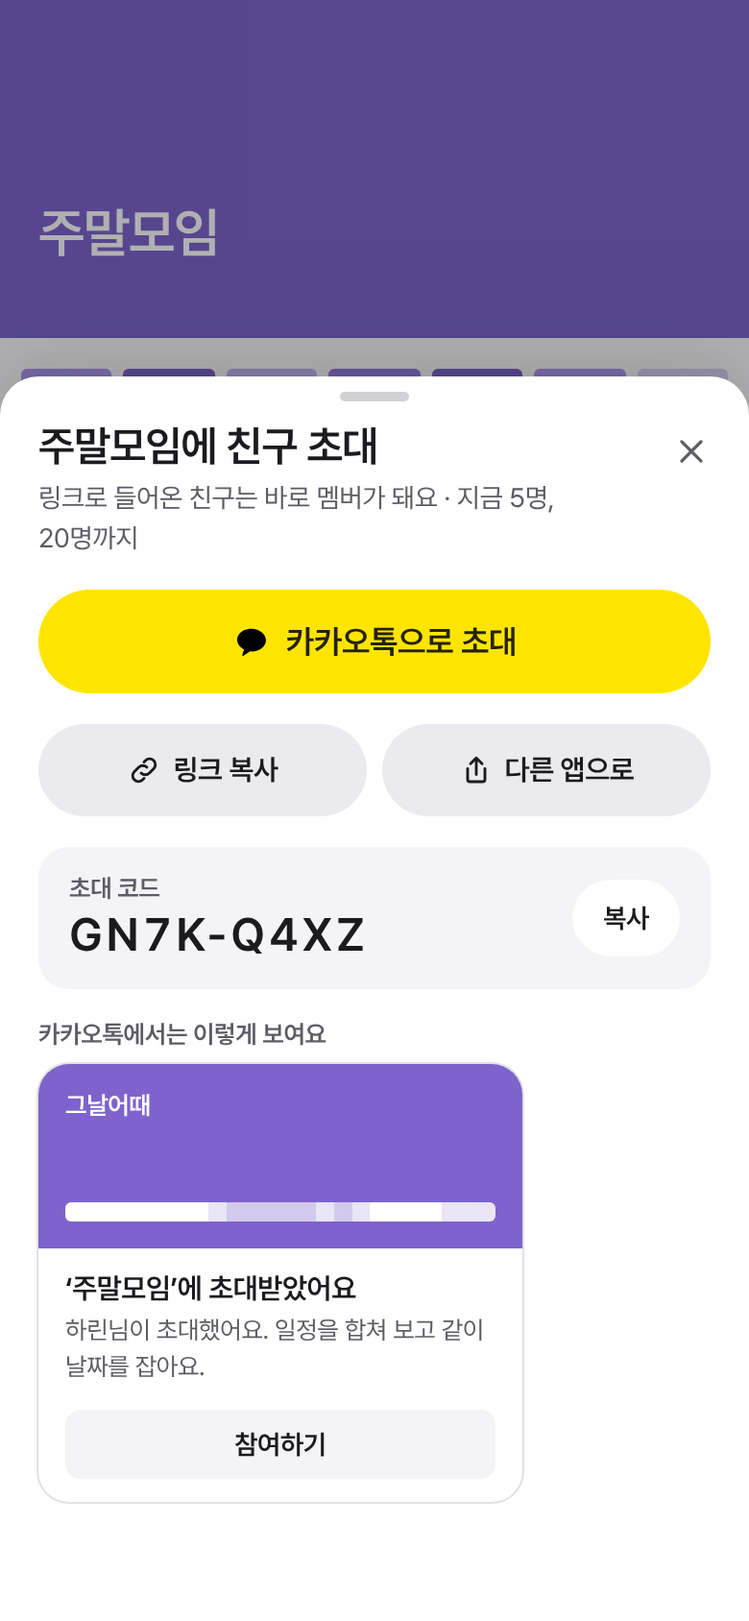
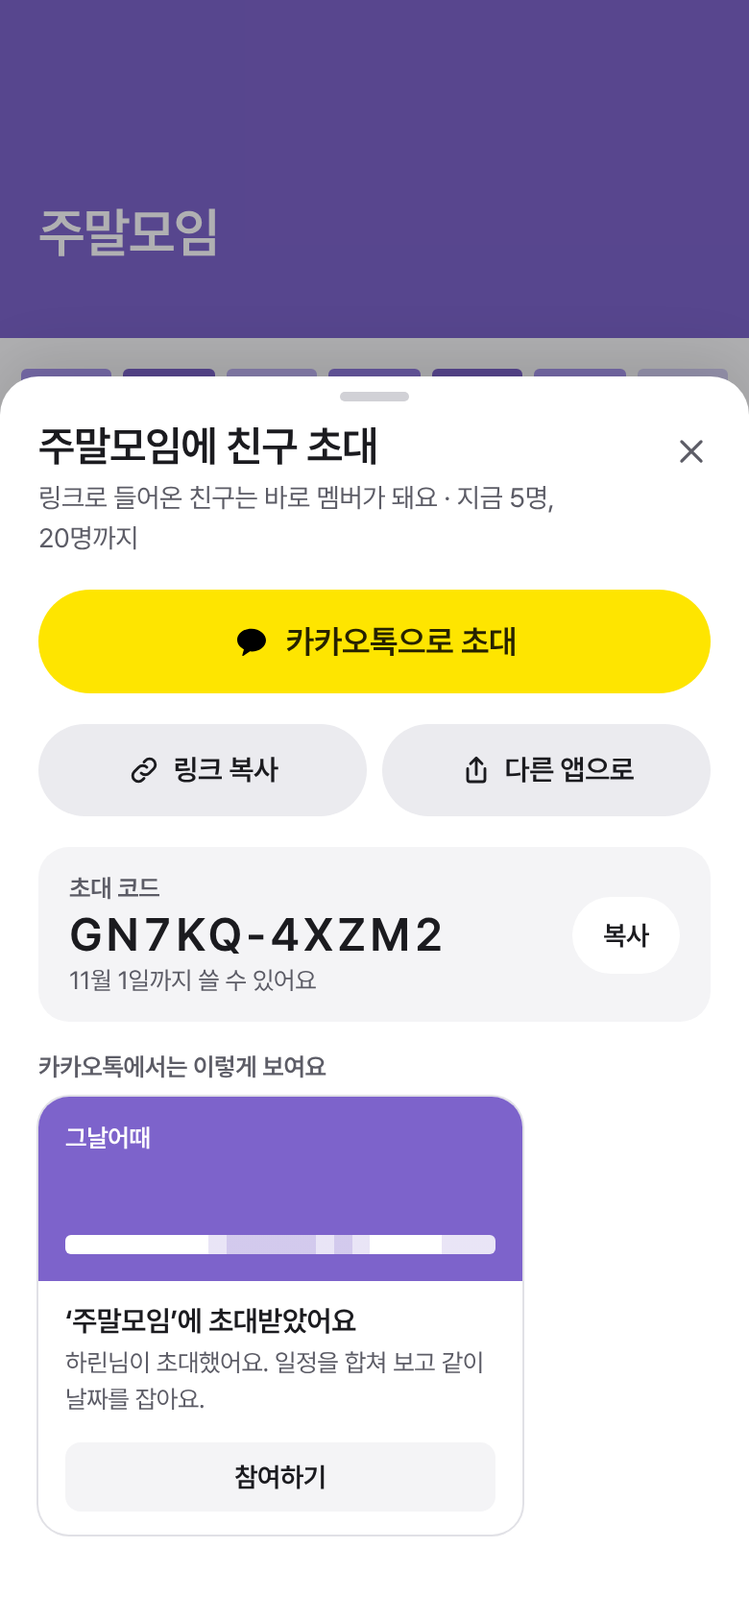
docs(design): write the M2 flows and wireframes
The M2 group alpha gets the same kind of document M1 has: a screen list,
flow charts for joining, date setting, voting and group settings, and a
wireframe table per screen, built on the twelve existing M2 boards and
kickoff 5.3 to 5.6 and the contract's entries and state blobs. Screens
without a board (create group, invite code, the leader's time and
activity sheet, leader transfer, cancel, members, group profile, leave
and delete) are specified in text.

Ten review items record what the wireframes needed and the contract does
not say yet, such as what a person sees before joining, invite expiry,
a leader leaving the group, and a notice on leader transfer. The invite
board shows a ten-character code with its end date, and the join board
no longer lists member names before joining.

Claude-Session: https://claude.ai/code/session_01NfNQYytRc1WA56NULSw6PM

diff --git a/docs/design/boards/Invite.dc.html b/docs/design/boards/Invite.dc.html
@@ -44,7 +44,7 @@ button{font:inherit;letter-spacing:inherit;color:inherit}
 </div>
 
 <div style="display: flex; align-items: center; gap: 12px; padding: 14px 16px; border-radius: 16px; background: #f4f4f6">
-<span style="flex: 1 1 0; display: flex; flex-direction: column; gap: 2px"><span style="font-size: 13px; font-weight: 600; color: #5c5c66">초대 코드</span><span style="font-size: 24px; font-weight: 600; letter-spacing: 0.08em; font-variant-numeric: tabular-nums">GN7K-Q4XZ</span></span>
+<span style="flex: 1 1 0; display: flex; flex-direction: column; gap: 2px"><span style="font-size: 13px; font-weight: 600; color: #5c5c66">초대 코드</span><span style="font-size: 24px; font-weight: 600; letter-spacing: 0.08em; font-variant-numeric: tabular-nums">GN7KQ-4XZM2</span><span style="font-size: 13px; color: #5c5c66">11월 1일까지 쓸 수 있어요</span></span>
 <button type="button" style="height: 40px; padding: 0 16px; border: none; border-radius: 999px; background: #ffffff; font-size: 14px; font-weight: 600; cursor: pointer">복사</button>
 </div>
 

diff --git a/docs/design/boards/Join.dc.html b/docs/design/boards/Join.dc.html
@@ -25,7 +25,7 @@ button{font:inherit;letter-spacing:inherit;color:inherit}
 <span style="width: 64px; height: 64px; border-radius: 18px; background: {{g.s5}}; color: #ffffff; display: flex; align-items: center; justify-content: center; font-size: 26px; font-weight: 600">주</span>
 <span style="margin-top: 6px; font-size: 15px; color: #5c5c66">하린님이 초대했어요</span>
 <h1 style="margin: 0; font-size: 32px; font-weight: 600; letter-spacing: -0.03em">주말모임</h1>
-<span style="font-size: 15px; color: #5c5c66">멤버 5명 · 하린, 지영, 민수, 서연, 현우</span>
+<span style="font-size: 15px; color: #5c5c66">멤버 5명 · 이름은 들어가면 보여요</span>
 </div>
 
 <section aria-label="참여하면 보이는 것" style="position: absolute; top: 318px; left: 16px; width: 358px; display: flex; flex-direction: column; gap: 8px">

diff --git a/docs/design/m2.md b/docs/design/m2.md
@@ -1,0 +1,345 @@
+# M2 화면 흐름도와 와이어프레임
+
+M2 그룹 알파에 들어가는 화면입니다. [M1 화면](m1.md)과 같은 형식으로, 흐름도는 화면이 어떻게 이어지는지, 와이어프레임 표는 화면마다 무엇이 있고 어떤 상태가 있는지 적습니다. 그림은 [화면 시안](screens.md)의 `screens/m2` PNG입니다. 기준은 [개요](../kickoff.md) 5.3 그룹 캘린더, 5.4 날짜 잡기, 5.6 그룹 설정과 [공통 계약](../parts/protocol.md) 2·4·5·8장입니다.
+
+- **탭 막대:** M2는 캘린더 · 그룹 · 나 세 개입니다. 채팅 탭은 M3에서 더합니다. 시안 보드는 채팅까지 네 탭으로 그렸으므로, M2에서는 채팅 탭과 그 배지를 뺍니다.
+- **그룹 화면:** M2의 그룹 화면은 그룹 캘린더 하나입니다. 시안 머리글의 "캘린더 · 채팅 · 사진" 세그먼트와 약속·응답·정해짐 화면 머리글의 채팅 아이콘은 M3에서 켭니다. 그래서 M2의 날짜 잡기는 알림, 그룹 목록의 소식, 그룹 캘린더의 약속으로 보이고, 채팅 타임라인의 카드는 M3부터입니다.
+- **그룹 색:** 그룹 화면의 머리글과 강조색, 띠의 단계, 내 캘린더에 들어간 약속의 색은 그 그룹의 색을 따릅니다([README](README.md) 2.2, 개요 5.6).
+
+## 1. 화면 목록
+
+| 번호 | 화면 | 종류 | 시안 |
+| --- | --- | --- | --- |
+| 1 | 그룹 목록 | 탭 첫 화면 | [01-groups](screens/m2/01-groups@2x.png) |
+| 2 | 초대 보내기 | 시트 | [02-invite](screens/m2/02-invite@2x.png) |
+| 3 | 초대 받은 사람 | 전체 화면 | [03-join](screens/m2/03-join@2x.png) |
+| 4 | 그룹 캘린더 | 밀어 들어가는 화면 | [04-group-calendar](screens/m2/04-group-calendar@2x.png) |
+| 5 | 날 테이블 | 밀어 들어가는 화면 | [05-day-table](screens/m2/05-day-table@2x.png) |
+| 6 | 날짜 잡기 시트 | 시트 | [06-date-sheet](screens/m2/06-date-sheet@2x.png) |
+| 7 | 약속 상세 | 밀어 들어가는 화면 | [07-appointment](screens/m2/07-appointment@2x.png) |
+| 8 | 응답 | 밀어 들어가는 화면 | [08-respond](screens/m2/08-respond@2x.png) |
+| 9 | 투표 | 밀어 들어가는 화면 | [09-vote](screens/m2/09-vote@2x.png) |
+| 10 | 정해짐 | 밀어 들어가는 화면 | [10-decided](screens/m2/10-decided@2x.png) |
+| 11 | 그룹 설정 | 밀어 들어가는 화면 | [11-group-settings](screens/m2/11-group-settings@2x.png) |
+| 12 | 그룹 캘린더 · 어두운 모드 | 상태 | [12-group-calendar-dark](screens/m2/12-group-calendar-dark@2x.png) |
+| 13 | 그룹 만들기 | 시트 | 아직 없음 |
+| 14 | 초대 코드 넣기 | 시트 | 아직 없음 |
+| 15 | 시간·활동 정하기(주도자) | 시트 | 아직 없음 |
+| 16 | 주도자 넘기기 | 시트 | 아직 없음 |
+| 17 | 약속 취소 | 시트 | 아직 없음 |
+| 18 | 멤버 | 밀어 들어가는 화면 | 아직 없음 |
+| 19 | 그룹 프로필 | 시트 | 아직 없음 |
+| 20 | 나가기 · 내보내기 · 그룹 삭제 | 시트 | 아직 없음 |
+
+"아직 없음"인 화면은 이 문서의 표가 와이어프레임입니다. 부품은 [컴포넌트](components.md)와 M1의 같은 종류(시트 머리, 설정 줄, 빨간 글자 버튼)를 그대로 씁니다. 첫 그룹 전에 거치는 복구 코드는 M1 13번 화면입니다(2.1). 앱 스크린샷의 이름은 이 번호를 따릅니다(`m2/04-group-calendar`처럼).
+
+## 2. 흐름도
+
+### 2.1 그룹 만들기와 들어오기
+
+```mermaid
+flowchart TD
+    T[그룹 탭: 그룹 목록] -->|＋| N[그룹 만들기<br>이름 · 그룹 색]
+    T -->|초대 코드| C[초대 코드 넣기]
+    K[카카오톡 카드 · 초대 링크] -->|앱이 있음| J[초대 받은 사람]
+    K -->|앱이 없음| A[스토어 → 설치 → 시작 화면의 초대 카드] --> L[로그인] --> J
+    C --> J
+    N -->|만들기| R{복구 코드를<br>저장했나?}
+    J -->|참여하기| R
+    R -->|아니요| Q[복구 코드 · M1 13번<br>종이에 적었어요] --> P{만들기? 참여?}
+    R -->|예| P
+    P -->|만들기| I[초대 보내기] --> G[그룹 캘린더]
+    P -->|참여| W[들어가는 중<br>멤버 기기가 받아 줌] --> G
+```
+
+- 그룹은 한 사람이 20개까지, 그룹마다 20명까지입니다. 꽉 차면 만들기·참여하기 버튼을 끄고 이유를 적습니다.
+- 첫 그룹을 만들거나 참여하기 전에 복구 코드를 적게 합니다(M1 결정 3). 이미 "저장함"이면 건너뜁니다. 그룹에 들어간 뒤 기기를 잃으면 복구 코드 없이는 그 기록을 되찾을 수 없기 때문입니다.
+- 초대 링크나 코드로 들어온 사람은 초대한 멤버가 승인한 것으로 봅니다(개요 10장). 서버에서는 대기(`pending`)이고, 온라인인 멤버 기기 하나가 Add 커밋으로 넣어 주면 들어갑니다(계약 2장). 그래서 참여하기 뒤에 "들어가는 중" 상태가 있습니다.
+- 앱이 없으면 스토어를 거칩니다. 안드로이드는 설치 정보(Install Referrer)로 초대를 이어 받고, iOS는 설치 뒤 링크를 한 번 더 누르거나 시작 화면의 "초대 코드가 있어요"에 코드를 붙여넣습니다.
+- 새 멤버는 들어온 뒤의 기록만 봅니다. 날이 지나지 않은 약속은 새 멤버용 번들로 받습니다(계약 5장).
+
+### 2.2 날짜 잡기
+
+```mermaid
+flowchart TD
+    G[그룹 캘린더] -->|날짜 탭| D[날 테이블<br>30분 · 끌어서 시간]
+    D -->|이 날로 날짜 잡기| S[날짜 잡기 시트<br>투표 · 독재 · 한마디]
+    S -->|신청하기| A[약속 상세 · 주도자<br>내 캘린더에 가안]
+    S -.->|알림: 멤버 전원| M[응답]
+    M -->|수락| X[내 캘린더에 종일 일정<br>시간이 정해지면 그 시간으로]
+    M -->|다음에| Y[빠짐 · 다시 수락하면 늦참]
+    A -->|독재: 시간·활동 정하기| T[시간·활동 정하기] --> U[참가자 일정이 함께 바뀜]
+    A -->|투표 열기| V[투표]
+    V -->|닫힘| Z[정해짐]
+    A -->|주도자 넘기기| H[주도자 넘기기]
+    A -->|약속 취소| K[약속 취소]
+```
+
+- 신청은 멤버 전원에게 갑니다(개요 10장). 신청하는 순간 주도자의 캘린더에 가안으로 들어가고, 첫 수락이 오면 확정입니다.
+- 응답은 수락과 다음에 둘이고, 이름과 함께 멤버 모두에게 보입니다. 사람마다 마지막 응답이 유효합니다.
+- 결정 방식의 처음값은 그룹 설정의 기본 결정 방식입니다. 주도자는 신청 뒤에도 바꿀 수 있습니다(`RequestUpdate`).
+- **끝:** 약속 날이 한국 시간으로 지나면 끝납니다. 수락이 없던 신청은 주도자의 가안까지 모든 기기에서 사라지고, 수락이 있던 약속은 참가자 캘린더에 지난 일정으로 남습니다. 그룹 캘린더에는 지난 약속이 90일 보입니다.
+- 시간이 정해진 약속과 가안은 모든 그룹에 일정이 있는 시간으로 보이고, 시간이 미정인 약속은 하루를 막지 않도록 비어 있는 시간으로 둡니다(개요 5.4).
+
+### 2.3 투표
+
+```mermaid
+flowchart LR
+    O[주도자: 투표 열기<br>추천 3개 고정] --> P[참가자 투표<br>마지막 표가 유효]
+    P -->|선택지 추가| P
+    P --> C{닫힘}
+    C -->|현재 참가자 전원 투표| R[결과]
+    C -->|주도자가 닫음| R
+    C -->|약속 날 00:00| R
+    R -->|시간 투표| T[참가자 일정의 시간]
+    R -->|활동 투표| A[참가자 일정의 제목]
+    R -.->|주도자가 다시 열기| O
+```
+
+- 선택지는 추천 3개, 멤버가 더한 것, 맨 아래 "아무거나"입니다. 추천 3개는 주도자가 여는 순간 주도자 기기가 계산해 고정합니다.
+- 선택지 추가는 신청할 때의 그룹 설정을 따릅니다(`Request.leader_options`). "주도자만"이면 다른 사람에게는 "선택지 추가"가 보이지 않습니다.
+- 표는 참가자(수락한 사람과 주도자)마다 하나입니다. 늦참자도 닫히기 전까지 투표할 수 있습니다.
+- 결과는 가장 많은 표를 받은 선택지입니다. 모두 "아무거나"이거나 아무도 투표하지 않았으면 추천 1번, 동점이면 목록에서 먼저 나오는 것입니다. 다시 열면 추천을 새로 계산하고 표는 지웁니다.
+
+### 2.4 그룹 설정과 관리
+
+```mermaid
+flowchart TD
+    G[그룹 캘린더] -->|오른쪽 위 설정| S[그룹 설정]
+    S -->|이름 · 색 · 커버 · 날짜 잡기 기본값| C[멤버 누구나 바꿈<br>마지막으로 바꾼 사람 표시]
+    S -->|그룹 프로필| P[그룹 프로필 · 취향]
+    S -->|멤버| M[멤버]
+    M -->|방장: 내보내기 · 방장 넘기기| K[확인 시트]
+    S -->|초대 링크| I[초대 보내기]
+    S -->|그룹 나가기| L[나가기 확인]
+    S -->|방장: 그룹 삭제| X[그룹 삭제 확인]
+```
+
+- 그룹 공통 설정은 멤버 누구나 바꿉니다. 방장에게 남는 것은 멤버 내보내기와 그룹 삭제, 방장 넘기기뿐입니다(개요 5.6).
+- 동시에 바꾸면 서버가 나중 저장을 거절하고(409 `state_conflict`), 기기가 최신 값에 내가 바꾼 항목만 다시 얹어 저장합니다. 같은 항목이면 나중 값이 남습니다. 화면에는 오류를 띄우지 않고 바뀐 값과 "마지막으로 바꾼 사람"만 새로 보입니다.
+- 날짜 잡기 기본값은 이미 신청된 약속에 영향을 주지 않습니다. 결정 방식과 선택지 추가 권한은 신청에 복사되기 때문입니다(계약 4장).
+- 방장이 나가거나 계정을 지우면 가장 오래된 활성 멤버가 방장이 됩니다([API](../parts/api-server.md) 방장 승계).
+
+### 2.5 알림과 링크로 들어오기
+
+| 출발 | 도착 |
+| --- | --- |
+| 초대 링크(`/i/<코드>`) | 3번 초대 받은 사람 |
+| 날짜 잡기 신청 알림 | 8번 응답 |
+| 수락·다음에 알림(주도자) | 7번 약속 상세 |
+| 투표 열림 알림 | 9번 투표 |
+| 투표 닫힘 알림 | 10번 정해짐 |
+| 시간·활동 변경 알림(참가자) | 7번 약속 상세 |
+| 취소 알림 | 4번 그룹 캘린더의 그 날, 토스트 "하린이 11/7(토) 약속을 취소했어요" |
+| 들어가기 끝남(대기 → 활성, 실시간 `welcome`) | 4번 그룹 캘린더, 토스트 "주말모임에 들어왔어요". 앱이 닫혀 있었으면 다음에 열 때 |
+| 중간 위젯의 다음 약속 | 7번 약속 상세 |
+
+알림 문구는 [문구와 톤](tone.md#알림-문구)을 따릅니다. 그룹 설정에서 약속 알림을 끈 멤버에게는 신청·응답·투표·변경 알림이 가지 않습니다(계약 8장).
+
+## 3. 와이어프레임
+
+화면마다 위에서 아래 순서로 적습니다. 크기는 pt이고, 높이가 적힌 것은 고정 높이입니다. "데이터"는 코어가 내야 하는 값과 그 값이 오는 곳(엔트리, 상태 블롭, 서버)입니다.
+
+### 1. 그룹 목록
+
+| 항목 | 내용 |
+| --- | --- |
+| 구성 | 큰 제목 "그룹"(32) + 오른쪽 글자 버튼 "초대 코드" · ＋ → 안내 한 줄 "그룹 4개 · 20개까지, 그룹마다 20명까지" → 그룹 줄(84): 그룹 아바타(커버가 있으면 커버, 없으면 그룹 색 5단계 바탕에 첫 글자) · 이름(17 · 600) · 둘째 줄 소식 · 오른쪽 응답 배지 → 다음 할 일 막대 → 탭 막대 |
+| 둘째 줄 | 하나만 보입니다. 응답할 신청("엄마가 11월 15일(일)로 날짜를 잡았어요" + 작은 알약 "응답"), 진행 중인 투표("11월 7일(토) · 시간 투표 3/4명"), 다음 약속("11월 7일(토) 19:00 · 보드게임 카페"), "잡힌 약속 없음" 순으로 앞의 것이 이깁니다. 채팅 미리보기는 M3에서 더합니다 |
+| 순서 | 맨 위 고정한 그룹 → 응답할 일이 있는 그룹 → 최근 소식 순 |
+| 동작 | 줄 탭 → 4번. 응답 알약 → 8번. ＋ → 13번. "초대 코드" → 14번 |
+| 상태 | 0개: "아직 그룹이 없어요" + 설명 "그룹을 만들면 멤버들의 비어 있는 시간을 합쳐 볼 수 있어요" + 주요 버튼 "그룹 만들기" + 글자 버튼 "초대 코드가 있어요". 들어가는 중: 둘째 줄 "들어가는 중 · 멤버가 앱을 열면 들어가요", 누르면 3번의 기다림 상태. 20개: ＋ 꺼짐, 안내 줄이 "그룹은 20개까지 들어갈 수 있어요" |
+| 배지 | 탭 막대의 그룹 탭과 그룹 줄 오른쪽: 응답하지 않은 신청 수 |
+| 데이터 | 그룹마다 이름·색·커버(`group_meta`), 고정 여부(기기), 멤버 상태(서버), 응답할 신청과 투표 진행과 다음 약속(엔트리로 계산) |
+
+### 2. 초대 보내기
+
+| 항목 | 내용 |
+| --- | --- |
+| 구성 | 시트(그룹 캘린더 위) → 제목 "주말모임에 친구 초대" + 닫기 → 설명 "링크로 들어온 친구는 바로 멤버가 돼요 · 지금 5명, 20명까지" → 버튼 "카카오톡으로 초대"(54, 카카오 노랑 `#FEE500`) → 나란히 "링크 복사" · "다른 앱으로"(시스템 공유) → 초대 코드 카드: 코드(24 · 600, 5자씩 두 묶음 "GN7KQ-4XZM2") + "11월 1일까지 쓸 수 있어요" + 작은 알약 "복사" → "카카오톡에서는 이렇게 보여요" 미리보기 카드 |
+| 카카오톡 카드 | 앱 이름, "'주말모임'에 초대받았어요", "하린님이 초대했어요. 일정을 합쳐 보고 같이 날짜를 잡아요.", 버튼 "참여하기". 링크는 `https://<초대 도메인>/i/<코드>#<그룹 이름과 색>`이고, 그룹 이름은 서버가 모르므로 초대하는 기기가 링크 뒤쪽(#)에 붙입니다 |
+| 동작 | 링크·코드 복사 → 토스트 "복사했어요". 카카오톡으로 초대 → 카카오톡 공유(카카오톡이 없으면 카카오 웹 공유) |
+| 상태 | 코드는 7일 동안 씁니다. 끝났으면 카드가 "끝난 코드예요" + 작은 알약 "새 코드 만들기". 20명이 다 참: 세 버튼 꺼짐, 설명 "20명이 다 찼어요. 멤버가 나가면 다시 초대할 수 있어요". 오프라인이고 받은 코드가 없음: 버튼 꺼짐 "연결되면 초대할 수 있어요" |
+| 데이터 | 초대 코드와 끝나는 시각(`POST /groups/{id}/invites`), 멤버 수 |
+
+### 3. 초대 받은 사람
+
+| 항목 | 내용 |
+| --- | --- |
+| 구성 | 닫기 → 그룹 아바타(64) → "하린님이 초대했어요" → 그룹 이름(32) → "멤버 5명 · 이름은 들어가면 보여요" → 카드 "참여하면 이 그룹에 보이는 것": "30분 단위로 비어 있는지만" + "일정 제목·장소·첨부는 보이지 않아요. 내용은 멤버 기기에서만 열려요." → 묶음: 공유 기간 "오늘부터 8주 ›" · 포함할 캘린더 "학교 · 알바 · 개인 ›"(소프트 캘린더는 "비어 있음으로") · 생일 공개 스위치 → 주요 버튼 "주말모임 참여하기" → 글자 버튼 "다른 초대 코드 붙여넣기" |
+| 그룹 이름 | 링크(#)로 왔으면 그 이름과 색. 코드만 넣었으면 이름 자리에 "하린님의 그룹"을 쓰고 그룹 색 대신 먹색 아바타. 실제 이름은 들어간 뒤 그룹 메타로 바뀝니다 |
+| 동작 | 참여하기 → (첫 그룹이고 복구 코드를 적지 않았으면 M1 13번) → 들어가는 중 → 그룹 캘린더. 공유 설정은 이 화면에서 정한 값으로 시작하고, 그룹 설정에서 바꿉니다 |
+| 들어가는 중 | 같은 화면이 "들어가는 중" 상태로 바뀜: 제목 "주말모임에 들어가는 중이에요", 설명 "멤버 기기가 받아 주면 바로 열려요. 멤버가 모두 앱을 닫고 있으면 조금 걸릴 수 있어요." + 글자 버튼 "그룹 목록으로". 끝나면 토스트 "주말모임에 들어왔어요"(앱이 닫혀 있었으면 다음에 열 때) |
+| 오류 | 끝난 코드·다 쓴 코드: 빨간 카드 "이 초대는 끝났어요. 초대한 사람에게 새 링크를 받아 주세요." 이미 멤버: 바로 그룹 캘린더. 그룹이 20명: 버튼 꺼짐 "이 그룹은 20명이 다 찼어요". 내 그룹이 20개: 버튼 꺼짐 "그룹은 20개까지 들어갈 수 있어요". 로그인 전: 로그인(M1 2번)을 거쳐 돌아옴 |
+| 데이터 | 서버의 초대 미리보기(초대한 사람의 이름, 멤버 수, 끝나는 시각, 다 찼는지), 링크(#)의 그룹 이름·색, `POST /invites/{code}/join` |
+
+### 4. 그룹 캘린더
+
+| 항목 | 내용 |
+| --- | --- |
+| 구성 | 머리글: "‹ 그룹" · 그룹 이름(17 · 600) · 오른쪽 친구 초대(2번) · 설정(11번). 커버가 있으면 3:1 커버 머리글(스크롤하면 접힘), 없으면 그룹 색 띠 → 멤버 줄 "5명 · 지영, 민수, 서연, 현우" → 월 제목 + 범례(1명 · 5명 단계 막대) → 요일 줄 → 5~6주 격자(칸 76): 날짜, 그날의 1시간 띠(16, 0–24시 24칸, 6시간마다 눈금), 약속(그룹 색 5단계 막대 + 참가자 수), 생일 아이콘(공개한 멤버만), 공휴일 → 다음 할 일 막대 → 탭 막대 |
+| 띠 | 칸의 값은 그 한 시간 내내 일정이 없는 멤버 수. 0명은 빈 칸, 1명은 가장 연하게, 전원은 가장 진하게(`freeCount` 규칙). 공유 기간 밖의 날은 띠 없음 |
+| 동작 | 날짜 탭 → 5번 날 테이블. 약속 막대 탭 → 7번(주도자) 또는 8번(응답 전)·7번(응답 뒤). 좌우 밀기 → 이전·다음 달. 띠를 길게 누름 → 말풍선 "14시 · 3명 비어 있음 · 지영, 민수, 서연" |
+| 상태 | 공유한 멤버가 나뿐: 띠 대신 안내 "멤버가 공유하면 비어 있는 시간이 보여요". 불참(공유하지 않음·일시중지·키가 아직 없음): 그 멤버는 비어 있는 것으로 세지 않고, 멤버 줄에 "현우 · 공유 안 함". 오프라인: 마지막으로 받은 값으로 그리고 월 제목 아래 "10분 전 기준". 들어온 지 얼마 안 됨: 멤버 블롭을 받는 동안 띠 자리에 옅은 빈 칸 |
+| 접근성 | 날짜 칸은 하나의 버튼: "11월 7일 토요일, 9시부터 21시 사이 최대 4명 비어 있음, 약속 1개". 가장 큰 글자에서는 띠 대신 "가장 많이 비는 시간 · 18–22시 · 4명" 한 줄 |
+| 데이터 | 멤버마다 `availability`(30분 비트), `member_profile`(이름, 생일 공개), 그룹 메타, 약속 엔트리, 공휴일 |
+
+어두운 모드(12번)에서는 띠가 어두운 쪽에서 밝아지는 그룹 색의 어두운 단계로 바뀌고, 탭 막대는 어두운 글라스입니다.
+
+### 5. 날 테이블
+
+| 항목 | 내용 |
+| --- | --- |
+| 구성 | 머리글 "‹ 주말모임" → 제목 "11월 7일 토요일" + 설명 "주말모임 5명 · 30분 단위 · 끌어서 시간 고르기" → 선택 요약 카드: "비어 있는 사람 · 모두", 범위 "18:00–22:00 · 4시간", "4명 비어 있어요" → 테이블: 시각 눈금, 맨 위 합친 줄(그룹 색 단계), 멤버마다 한 줄(36, 아바타 + 이름, 비어 있는 30분 칸을 그룹 색으로) → 겹침 안내 "현우는 21:30부터 일정이 있어요" → 주요 버튼 "이 날로 날짜 잡기" |
+| 동작 | 테이블을 끌어 범위 고르기(30분 단위, 양 끝 손잡이 20×44). 범위 안 내내 비어 있는 사람의 줄이 강조됩니다. 날짜 잡기 → 6번(고른 범위를 시간으로 가져감, 범위가 없으면 시간 미정) |
+| 상태 | 지난 날: 날짜 잡기 버튼 꺼짐 "지난 날이에요". 이미 약속이 있는 날: 위에 그 약속 줄(누르면 7번). 불참 멤버: 줄이 흐리고 "공유 안 함" |
+| 접근성 | 범위는 조절 요소: 위아래로 30분 이동, 늘리기·줄이기. 멤버 줄은 "지영, 18시부터 22시까지 내내 비어 있음"처럼 읽힘. 가장 큰 글자에서는 30분 칸 대신 멤버마다 비어 있는 구간 목록 |
+| 데이터 | 그날의 `availability` 비트(멤버별), 이 그룹과 다른 그룹의 약속 |
+
+### 6. 날짜 잡기 시트
+
+| 항목 | 내용 |
+| --- | --- |
+| 구성 | 시트 머리 "11월 7일 토요일 · 날짜 잡기" + "주말모임 5명 모두에게 신청해요" → 질문 "시간과 활동은 어떻게 정할까요?" → 선택 카드 둘: "투표"(그룹 기본값 표시) "수락한 사람들과 시간·활동을 투표로 골라요. 추천 3개와 '아무거나'가 먼저 들어가요." / "독재" "내가 시간과 활동을 정해요. 바꾸면 참가자 일정도 함께 바뀌어요." → 독재면 시간(날 테이블에서 가져온 범위, 겹침 안내)과 활동 칩(추천 3개 + 직접 입력) → 한마디(선택) → 안내 "신청하면 내가 주도자가 되고, 내 캘린더에 가안으로 들어가요. 첫 수락이 오면 확정되고, 11월 7일이 지나면 끝나요." → 주요 버튼 "신청하기" |
+| 동작 | 신청하기 → `Request` 엔트리(알림: 멤버 전원) → 7번, 내 캘린더에 가안 |
+| 상태 | 오프라인: 버튼 꺼짐 "연결되면 신청할 수 있어요". 같은 날 내가 주도하는 약속이 이미 있음: 막지 않고 위에 한 줄 "이 날 약속이 이미 있어요 ›" |
+| 데이터 | `Request { day, mode, start?, end?, activity?, note?, leader_options }`. `leader_options`는 그룹 설정의 "투표 선택지 추가"를 복사 |
+
+### 7. 약속 상세
+
+| 항목 | 내용 |
+| --- | --- |
+| 구성 | 머리글 "‹ 주말모임" → 상태 줄 "확정 · 지영이 처음 수락"(가안이면 "가안 · 아직 수락이 없어요") → 날짜(28) → "주말모임 · 투표로 정해요 · 주도자 나" → 일정 카드(내 캘린더에 들어간 모습, 시간 미정이면 "종일" + 설명) → 응답 묶음 "참가자 4명 · 수락 3 · 다음에 1" + 멤버 줄(아바타, 이름, 수락·다음에·응답 전) → "정할 것": 시간 투표(진행 "3/4명 투표") · 활동("열면 지금 참가자 기준으로 추천 3개를 정해요" + "투표 열기") → 주도자만: "주도자 넘기기" · 빨간 글자 "약속 취소" |
+| 참가자 보기 | 주도자 전용 버튼 대신 내 응답 바꾸기("수락했어요 · 바꾸기"). 투표가 열려 있으면 "투표하기" |
+| 동작 | 투표 열기 → `Poll`(알림: 전원) → 9번. 독재면 "시간·활동 정하기" → 15번. 주도자 넘기기 → 16번. 약속 취소 → 17번. 결정 방식 바꾸기(주도자): 줄 "투표로 정해요 ›" → 투표·독재 선택 |
+| 상태 | 투표 닫힘: "정할 것"이 결과("19:00–21:00 · 보드게임 카페")로 바뀌고 10번으로 가는 줄. 지난 약속: 버튼이 모두 사라지고 "지난 약속"(그룹 캘린더에 90일). 취소됨: "취소된 약속이에요" 한 줄과 돌아가기 |
+| 데이터 | 그 약속의 엔트리 전부(`Request`, `RequestUpdate`, `LeadTransfer`, `Response`, `Poll*`, `Cancel`)로 계산한 상태 |
+
+### 8. 응답
+
+| 항목 | 내용 |
+| --- | --- |
+| 구성 | 머리글 "‹ 주말모임" → "날짜 잡기 · 투표로 정해요" → 제목 "11월 7일 토요일, 어때요?" → "하린님이 주말모임에 신청했어요" + 한마디 말풍선 → "그날 내 일정" 띠(0–24시, 내 일정 막대) → "지금까지": 주도자와 응답한 사람(수락·다음에) → 안내 "수락하면 내 캘린더에 '주말모임' 종일 일정으로 들어가고, 시간이 정해지면 그 시간으로 바뀌어요. 응답은 이름과 함께 멤버 모두에게 보여요." → 나란히 "다음에"(보조) · "수락"(주요) |
+| 동작 | 수락 → `Response { accept: true }`(알림: 주도자) → 7번, 토스트 "수락했어요 · 내 캘린더에 넣었어요". 다음에 → `Response { accept: false }` → 그룹 캘린더, 토스트 "다음에로 답했어요". 응답은 언제든 바꿀 수 있음 |
+| 상태 | 이미 응답함: 버튼이 "수락했어요 · 다음에로 바꾸기"처럼 바뀜. 지난 날·취소됨: 버튼 없이 상태 한 줄 |
+| 데이터 | 신청 엔트리, 내 그날 일정(기기), 응답 목록 |
+
+### 9. 투표
+
+| 항목 | 내용 |
+| --- | --- |
+| 구성 | 머리글 "‹ 11월 7일" + 세그먼트 "시간 · 활동" → 질문 "몇 시에 볼까요?"(활동이면 "뭐 할까요?") → "11월 7일 토요일 · 참가자 4명 중 3명 투표" → 선택지 줄: 범위(또는 활동 이름), 근거("추천 · 4명 모두 비어 있어요", "지영이 추가 · 2명 비어 있어요"), 투표한 사람 아바타, 내 표 표시 → 맨 아래 "아무거나 · 어느 시간이든 좋아요" → 글자 버튼 "선택지 추가" → 안내 "마지막에 고른 것이 내 표예요. 모두 투표하거나 주도자가 닫으면 끝나고, 늦어도 11월 7일 00:00에 닫혀요." → 주도자만 "투표 닫기" |
+| 동작 | 줄 탭 → 바로 내 표(`PollVote`, 알림 없음). 선택지 추가 → 시간이면 날 테이블식 범위 고르기, 활동이면 칩·직접 입력 → `PollOption`. 닫히면 결과 보기 → 10번 |
+| 상태 | 참가자가 아님(응답 전·다음에): 줄을 누를 수 없고 위에 "수락하면 투표할 수 있어요 · 수락". 선택지 추가가 주도자만: 버튼 없음. 닫힘: "4명 모두 투표해서 닫혔어요" + "결과 보기" |
+| 데이터 | `Poll`(고정된 추천), `PollOption`, `PollVote`, `PollClose`, 서버 수신 시각(`received_at`) |
+
+### 10. 정해짐
+
+| 항목 | 내용 |
+| --- | --- |
+| 구성 | 머리글 "‹ 주말모임" → "정해졌어요" → 날짜, 시간(28 · 600), 활동 → "하린, 지영, 민수, 서연 4명 · 현우는 다음에" → 카드 "내 캘린더에 들어갔어요 · 참가자 모두 같은 시간으로": 시간 축 미니 보기 + "주말모임 · 보드게임 카페" 막대 + "1시간 전 알림" → 글자 버튼 "캘린더에서 보기" → 묶음 "어디서 볼까요?": 설명 "동네 이름을 넣으면 카카오맵 검색으로 넘어가요. 위치는 모으지 않아요." + 동네 입력 + "지도에서 찾기" + 미리보기 "'합정 보드게임 카페'로 검색해요" |
+| 동작 | 지도에서 찾기 → `https://map.kakao.com/link/search/<동네 활동>`(동네는 기기에 남기지 않음) |
+| 상태 | 시간만 정해지고 활동은 미정: 제목은 "주말모임", 지도 묶음 없음. 다시 열린 투표가 있으면 위에 "투표를 다시 열었어요 · 투표하기" |
+| 데이터 | 투표 결과로 바뀐 약속 상태, 내 캘린더 일정 |
+
+### 11. 그룹 설정
+
+| 항목 | 내용 |
+| --- | --- |
+| 구성 | 머리글 "‹ 주말모임 · 그룹 설정" → 커버(3:1) + "커버 바꾸기" + 설명 → 묶음 "그룹 공통 · 멤버 누구나" + "마지막으로 바꾼 사람 지영 · 어제": 이름 › · 그룹 색(12색 줄) + 설명 · 날짜 잡기 기본 결정 방식(투표·독재) · 시간 추천 범위(09:00–21:00 ›) · 투표 선택지 추가(멤버 누구나·주도자만) + "이미 신청된 약속은 그대로, 다음 신청부터 적용돼요." → 묶음 "나에게만": 그룹 프로필 › · 포함할 캘린더 › · 공유 기간 › · 공유 일시중지 · 생일 공개 · 취향 공개 · 채팅 알림(M3) · 약속 알림 · 전체 끄기(1시간·오늘·계속) · 내 캘린더에서 약속 색 · 그룹 목록 맨 위에 고정 → 묶음 "관리": 멤버 "5명 · 방장 하린 ›" · 초대 링크 › · 그룹 나가기 → 방장만: 멤버 내보내기 · 방장 넘기기 · 그룹 삭제 |
+| 동작 | 공통 항목은 바꾸는 즉시 저장(`group_meta`, 버전 비교). 나에게만 항목은 기기와 내 상태 블롭(`member_profile`, `availability`), 알림은 서버. 공유 기간은 2~13주, 포함할 캘린더는 M1 캘린더 관리의 목록 |
+| 상태 | 오프라인: 공통 항목과 알림은 꺼짐 "연결되면 바꿀 수 있어요", 나에게만의 기기 항목은 그대로. 커버 올리는 중: 커버 위 진행 막대 |
+| 데이터 | `group_meta { name, color, cover, plan { mode, window, options_by }, changed_by, changed_at }`, `member_profile`, 서버의 알림 설정(`notify_chat`, `notify_plan`, `muted_until`) |
+
+### 13. 그룹 만들기
+
+| 항목 | 내용 |
+| --- | --- |
+| 구성 | 시트 머리 "그룹 만들기" + 닫기 → 이름 입력(52, 20자까지) → 그룹 색 12색 줄(처음값은 내 다른 그룹이 쓰지 않은 첫 색) → 설명 "커버와 날짜 잡기 기본값은 만든 뒤 그룹 설정에서 바꿔요." → 주요 버튼 "만들기"(이름이 비면 꺼짐 "이름을 적어 주세요") |
+| 동작 | 만들기 → (첫 그룹이고 복구 코드를 적지 않았으면 M1 13번) → 그룹 생성 → 4번 그룹 캘린더 위에 2번 초대 보내기 시트(닫으면 4번) |
+| 상태 | 20개: 열리지 않고 1번의 안내. 오프라인: 버튼 꺼짐 "연결되면 만들 수 있어요" |
+| 데이터 | 그룹 생성(MLS 그룹, 계약 2장), 첫 `group_meta` |
+
+### 14. 초대 코드 넣기
+
+| 항목 | 내용 |
+| --- | --- |
+| 구성 | 시트 머리 "초대 코드" → 입력(52, 대문자로 보이고 하이픈은 저절로) + 붙여넣기 버튼 → 주요 버튼 "확인" |
+| 동작 | 확인 → 3번. 대소문자와 하이픈·띄어쓰기는 무시하고 비교 |
+| 상태 | 10자 전: 버튼 꺼짐 "코드 N자 더". 없는 코드: 빨간 한 줄 "이 코드를 찾지 못했어요". 너무 자주 시도: "잠시 뒤 다시 시도해 주세요"(IP당 시간당 10회, API) |
+
+### 15. 시간·활동 정하기(주도자)
+
+| 항목 | 내용 |
+| --- | --- |
+| 구성 | 시트 머리 "11월 7일 · 시간과 활동" → 참가자만의 작은 날 테이블(합친 줄 + 참가자 줄) → 범위 요약 "19:00–21:00 · 2시간" → 겹침 안내 "지영은 이 시간에 일정이 있어요"(사람마다 한 줄) → 활동 칩(추천 3개 + 직접 입력) → 주요 버튼 "정하기" |
+| 동작 | 정하기 → `RequestUpdate`(알림: 참가자) → 참가자 캘린더의 일정이 그 시간·제목으로 바뀜, 토스트 "참가자 4명의 일정을 바꿨어요". 시간 지우기 → 다시 종일 |
+| 상태 | 겹침이 있어도 막지 않습니다. 오프라인: 버튼 꺼짐 |
+
+### 16. 주도자 넘기기
+
+| 항목 | 내용 |
+| --- | --- |
+| 구성 | 시트 머리 "주도자 넘기기" → 설명 "넘기면 나는 일반 참가자가 돼요. 시간·활동 정하기와 투표 열고 닫기, 약속 취소를 그 사람이 해요." → 활성 멤버 줄(라디오, 수락한 사람 먼저) → 주요 버튼 "넘기기"(고르기 전 꺼짐 "넘길 사람을 골라 주세요") |
+| 동작 | 넘기기 → `LeadTransfer` → 7번이 참가자 보기로, 토스트 "지영에게 주도자를 넘겼어요". 받는 사람에게 가는 알림은 5장 결정 10 |
+
+### 17. 약속 취소
+
+| 항목 | 내용 |
+| --- | --- |
+| 구성 | 시트 머리 "11월 7일 약속을 취소할까요?" → 결과 목록: "참가자 4명의 캘린더에서 빠져요", "열린 투표도 함께 닫혀요", "취소했다는 알림이 멤버 모두에게 가요" → 빨간 글자 버튼 "약속 취소" → 글자 버튼 "그냥 둘게요" |
+| 동작 | 약속 취소 → `Cancel`(알림: 전원) → 4번, 토스트 "약속을 취소했어요". 되돌리기는 없습니다(되돌릴 수 없는 것만 시트로 묻는 규칙, [문구와 톤](tone.md#확인-대신-되돌리기)) |
+
+### 18. 멤버
+
+| 항목 | 내용 |
+| --- | --- |
+| 구성 | 머리글 "‹ 그룹 설정 · 멤버" → "5명 · 20명까지" → 멤버 줄(60): 아바타, 그룹 프로필 이름, 표시("방장", "나", "들어가는 중", "공유 안 함") → 글자 버튼 "친구 초대" |
+| 동작 | 방장이 다른 멤버 줄을 누르면 메뉴: "방장 넘기기" · 빨간 글자 "내보내기" → 20번. 그 밖에는 줄을 눌러도 메뉴 없음 |
+| 상태 | 들어가는 중인 멤버: 흐린 줄 "들어가는 중 · 멤버 기기가 받아 주면 들어와요" |
+| 데이터 | 서버의 멤버 목록(역할, 상태), `member_profile` |
+
+### 19. 그룹 프로필
+
+| 항목 | 내용 |
+| --- | --- |
+| 구성 | 시트 머리 "이 그룹에서 나" → 사진(원 80, "바꾸기") → 이름 입력(처음값은 계정 이름) → 설명 "이 그룹 멤버에게만 보여요" → 묶음 "취향 · 활동 추천에 쓰여요": 활동 카테고리마다 좋아요 · 싫어요(고르지 않아도 됨) → 주요 버튼 "저장" |
+| 동작 | 저장 → `member_profile` 다시 봉인. 사진은 256KB 이하로 줄여 올림(계약 9장) |
+| 데이터 | `member_profile { nickname, avatar, birthday_md, lunar, tags }`. 활동 카테고리 20개의 값은 기획이 M2 시작 전에 정합니다(개요 10장) |
+
+### 20. 나가기 · 내보내기 · 그룹 삭제
+
+| 경우 | 시트 |
+| --- | --- |
+| 그룹 나가기 | 제목 "주말모임에서 나갈까요?" → 결과: "이 그룹의 약속은 내 캘린더에 남아요", "다시 들어오려면 새 초대가 필요해요", 방장이면 "방장은 가장 오래된 멤버 지영에게 넘어가요", 주도하는 약속이 있으면 그 처리(5장 결정) → 빨간 글자 "나가기" → "그냥 둘게요" |
+| 멤버 내보내기(방장) | 제목 "현우를 내보낼까요?" → "현우는 이 그룹을 더 볼 수 없어요. 이미 받은 기록은 현우 기기에 남아요." → 빨간 글자 "내보내기" |
+| 방장 넘기기(방장) | 제목 "지영에게 방장을 넘길까요?" → "내보내기와 그룹 삭제는 방장만 할 수 있어요." → 주요 버튼 "넘기기" |
+| 그룹 삭제(방장) | 제목 "주말모임을 삭제할까요?" → 결과: "멤버 5명 모두에게서 그룹이 사라져요", "약속은 참가자 캘린더에 남아요", "되돌릴 수 없어요" → 입력 "'삭제'라고 적어 주세요" → 빨간 글자 "그룹 삭제" |
+
+## 4. 공통 상태
+
+| 상태 | 처리 |
+| --- | --- |
+| 오프라인 | 받은 값으로 그룹 캘린더와 날 테이블을 그리고 "10분 전 기준"을 적음. 신청·응답·투표·설정처럼 보내는 동작은 버튼을 끄고 "연결되면 …" |
+| 동기화 늦음 | 순번 빈틈을 채우는 동안 화면은 그대로 두고, 3초가 넘으면 머리글 아래 가는 진행 막대 |
+| 불참 | 공유하지 않음, 일시중지, 상태 키가 아직 없음은 모두 "공유 안 함"으로 같게 보임. 비어 있는 것으로 세지 않음 |
+| 새 멤버 | 들어온 뒤의 기록만. 날이 지나지 않은 약속은 번들로 받아 바로 보임 |
+| 오래 열지 않음 | 30일 넘게 따라잡지 못하면 다시 들어오는 동안 그룹 줄에 "다시 들어가는 중"(계약 6장). 로컬 기록은 남음 |
+| 업데이트가 필요한 메시지 | 모르는 엔트리: 약속 상세에 "앱을 업데이트하면 볼 수 있어요" 한 줄 |
+| 큰 글자 | 띠와 날 테이블은 가장 큰 글자에서 목록으로([컴포넌트](components.md) 8장) |
+| 어두운 모드 | 그룹 색의 어두운 5단계(`color.group.*.dark`), 탭 막대는 어두운 글라스 |
+
+## 5. 결정
+
+### 검토할 것 (M2 와이어프레임)
+
+1. **M2 탭 막대는 캘린더 · 그룹 · 나, 그룹 화면은 그룹 캘린더 하나입니다.** 채팅 탭과 그룹 화면의 채팅·사진 세그먼트는 M3에서 켭니다. 시안 보드는 M3까지의 모습이라 네 탭입니다.
+2. **첫 그룹을 만들거나 참여하기 직전에 복구 코드를 적게 합니다.** M1 결정 3의 M2 부분이고, 이미 저장했으면 건너뜁니다.
+3. **참여 전에는 초대한 사람과 멤버 수만 보여 주고, 다른 멤버 이름은 들어간 뒤에 보여 줍니다.** 코드를 가진 사람은 아직 멤버가 아니기 때문입니다. 그룹 이름은 서버가 모르므로 초대하는 기기가 링크 뒤쪽(#)에 붙이고, 코드만 넣은 사람에게는 "하린님의 그룹"으로 보입니다. 서버에는 초대 미리보기(초대한 사람 이름, 멤버 수, 끝나는 시각, 다 찼는지)가 필요합니다(백엔드).
+4. **카카오톡 카드에는 그룹 이름과 초대한 사람 이름이 들어갑니다.** 사용자가 직접 보내는 메시지라 카카오를 거치는 것을 받아들이고, 초대 화면의 미리보기가 그대로 보여 주므로 따로 경고하지 않습니다(보안).
+5. **초대 코드는 10자(5자씩 두 묶음), 7일 동안 씁니다.** 끝난 코드는 초대 화면에서 "새 코드 만들기"로 바꿉니다. 7일은 `group_invites.expires_at`의 기본값 제안입니다(백엔드).
+6. **주도자가 그룹에서 빠지면 그 약속의 주도자는 가장 먼저 수락한 참가자에게 넘어갑니다.** 나가기·내보내기·계정 삭제 모두 같습니다. 수락한 사람이 없으면 수락 없는 신청처럼 사라집니다. 지금 계약은 현재 주도자만 `LeadTransfer`를 쓸 수 있어서, 빠진 주도자의 약속은 멈춥니다. 상태 함수가 정할 규칙입니다(코어). 나가기 시트는 이 결과를 미리 보여 줍니다.
+7. **응답은 언제든 바꿀 수 있고, 지난 약속과 취소된 약속의 화면에는 버튼이 없습니다.** 개요 5.4의 "마지막 응답이 유효"를 화면에 그대로 옮긴 것입니다.
+8. **약속 취소와 그룹 삭제는 시트로 묻고, 그룹 삭제만 '삭제' 입력을 받습니다.** 그룹 삭제는 멤버 모두에게서 그룹을 지우는 되돌릴 수 없는 동작이라 계정 삭제와 같은 무게를 둡니다. 기기 인증(M1 결정 26)은 더하지 않습니다.
+9. **동시에 바꾼 그룹 설정은 조용히 합칩니다.** 409 `state_conflict`를 받아도 오류를 띄우지 않고, 바뀐 값과 "마지막으로 바꾼 사람"만 새로 보입니다.
+10. **주도자를 넘겨받은 사람에게 알림을 보냅니다.** 제목 "주말모임", 본문 "하린이 11/7(토) 약속의 주도자를 넘겼어요"로 그 사람에게만(`alert: [받는 사람]`, 종류 `plan`) 갑니다. 계약 8장의 알림 표에 `LeadTransfer`가 없어 더해야 합니다(코어·계약).

diff --git a/docs/design/tone.md b/docs/design/tone.md
@@ -191,6 +191,7 @@
 | 투표 열림 | 주말모임 | 시간 투표가 열렸어요 · 11/7(토) |
 | 확정 | 주말모임 | 11/7(토) 19:00 보드게임 카페로 정해졌어요 |
 | 변경(독재) | 가족 | 엄마: 시간을 13:00로 바꿨어요 · 11/15(일) |
+| 주도자 넘김 | 주말모임 | 하린이 11/7(토) 약속의 주도자를 넘겼어요 |
 | 일정 알림 | 가족 · 저녁 | 1시간 뒤 · 18:00–20:00 |
 | 종일 일정 알림 | 가족 · 여행 | 내일 · 종일 |
 | 생일(당일) | 민수 생일 | 오늘이에요 |

diff --git a/docs/design/screens.md b/docs/design/screens.md
@@ -93,6 +93,8 @@
 
 ## M2 그룹·날짜 잡기
 
+화면별 구성과 상태, 아직 시안이 없는 화면(그룹 만들기, 멤버, 주도자 넘기기 등)은 [M2 화면](m2.md)에 있습니다.
+
 ### 그룹 만들고 초대하기
 
 | 그룹 목록 | 초대 보내기 | 초대 받은 사람 |
